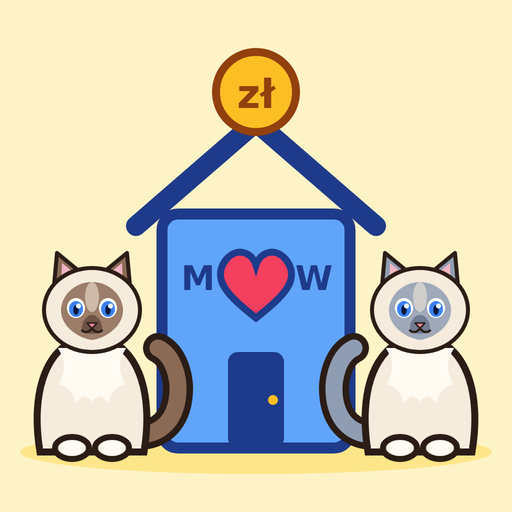
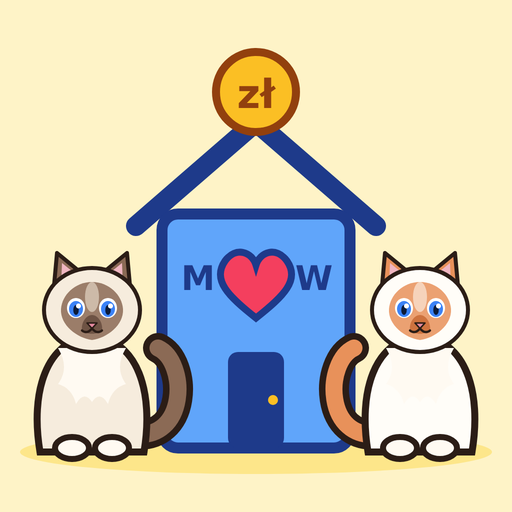
Ikona: drugi kot jako biały ragdoll z rudymi elementami
Claude-Session: https://claude.ai/code/session_016PLM6EYn5YpVWWzTSkDRRn

Changed region(s): [[0.625, 0.5, 0.9375, 0.875]]

diff --git a/sw.js b/sw.js
@@ -1,7 +1,7 @@
 /* Budżet M&W – service worker: the app opens without internet.
    index.html: network first (so updates arrive), cached copy when offline.
    Firebase SDK (versioned URLs): cache first. Firestore/Auth traffic is never touched. */
-const CACHE = 'budzet-mw-v2';
+const CACHE = 'budzet-mw-v3';
 const SDK = 'https://www.gstatic.com/firebasejs/10.14.1/';
 const SHELL = ['./', './index.html', './manifest.json', './icon-192.png', './icon-512.png', './apple-touch-icon.png'];
 const SDK_FILES = ['firebase-app.js', 'firebase-auth.js', 'firebase-firestore.js'].map(f => SDK + f);

diff --git a/index.html b/index.html
@@ -9,8 +9,8 @@
 <meta name="apple-mobile-web-app-title" content="Budżet M&amp;W">
 <title>Budżet M&amp;W</title>
 <link rel="manifest" href="manifest.json">
-<link rel="icon" href="icon-192.png?v=2">
-<link rel="apple-touch-icon" href="apple-touch-icon.png?v=2">
+<link rel="icon" href="icon-192.png?v=3">
+<link rel="apple-touch-icon" href="apple-touch-icon.png?v=3">
 <style>
 /* Layout: one-column mobile ledger — navy header, white cards on cool grey, pastel category blocks, fixed bottom tab bar. Single light theme by choice (matches the original app). */
 :root{
